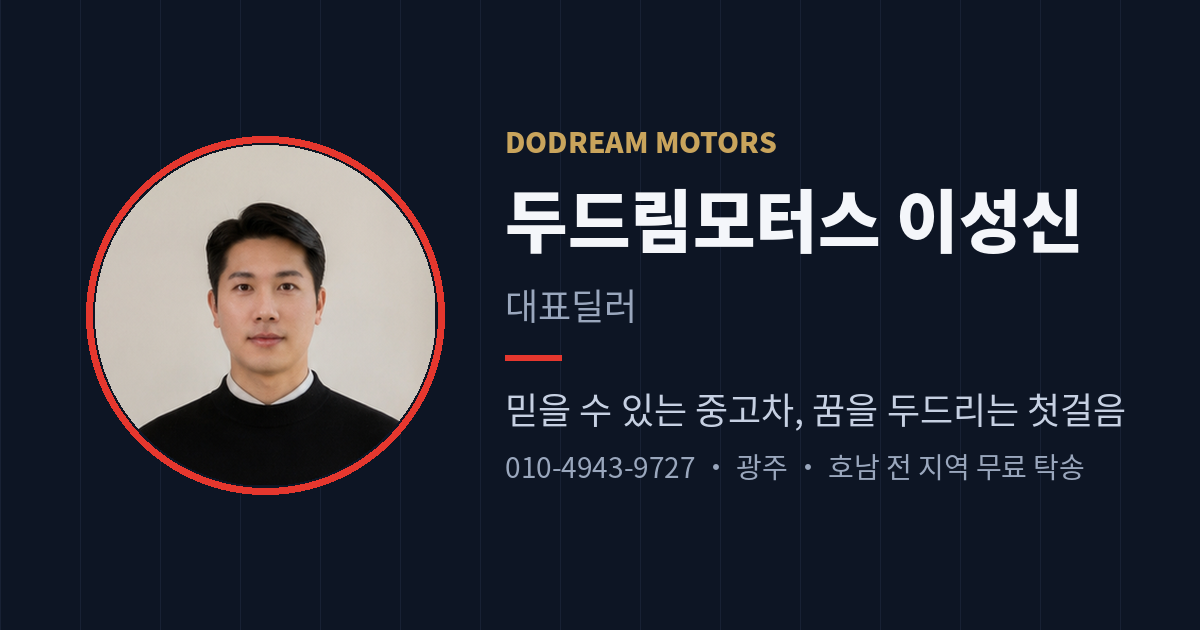
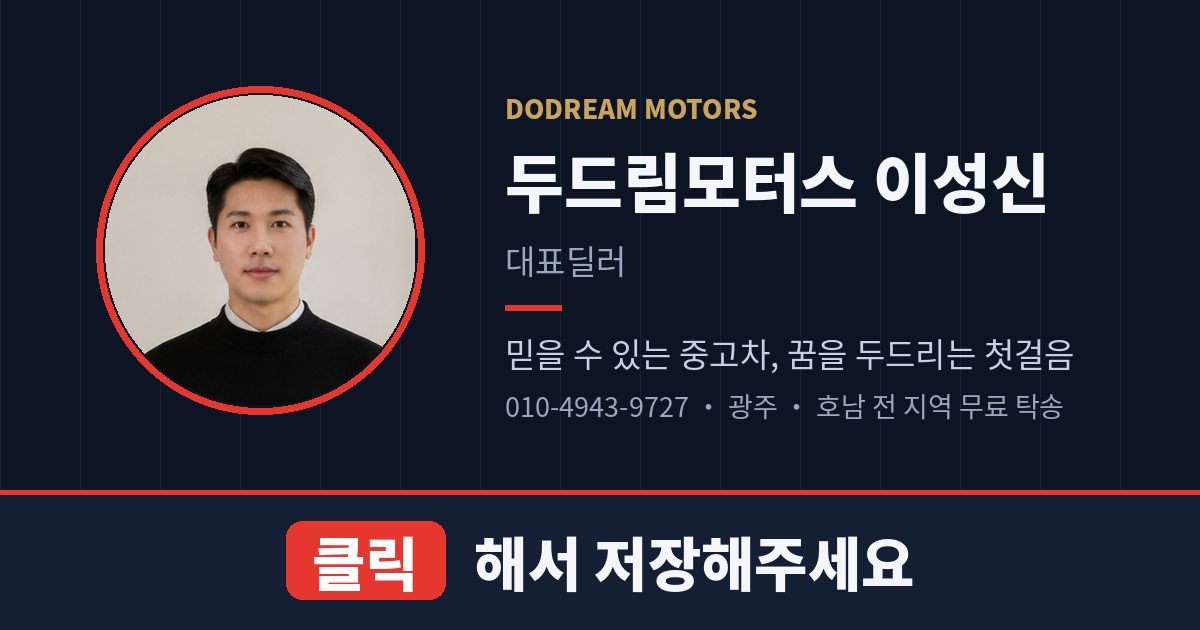
Add files via upload

diff --git a/index.html b/index.html
@@ -153,6 +153,12 @@
     -webkit-tap-highlight-color:transparent;
   }
   .btn-save:active{transform:scale(.97);background:rgba(201,164,92,.1);}
+  @keyframes savePulse{
+    0%,100%{box-shadow:0 0 0 0 rgba(201,164,92,.55);border-color:var(--gold);}
+    50%{box-shadow:0 0 0 9px rgba(201,164,92,0);border-color:#E8C57E;}
+  }
+  .btn-save{animation:savePulse 2s ease-in-out infinite;}
+  @media (prefers-reduced-motion:reduce){.btn-save{animation:none;}}
   .btn-save:focus-visible{outline:3px solid var(--ink);outline-offset:2px;}
   .footer{
     text-align:center;margin-top:12px;
@@ -205,7 +211,7 @@
   <section class="links">
     <p class="links-label">Channels</p>
 
-    <a class="link-row" href="https://blog.naver.com/019601lss" target="_blank" rel="noopener">
+    <a class="link-row" href="https://blog.naver.com/1318lss" target="_blank" rel="noopener">
       <span class="link-icon ic-blog" aria-hidden="true">N</span>
       <span class="link-txt">
         <strong>네이버 블로그</strong>
